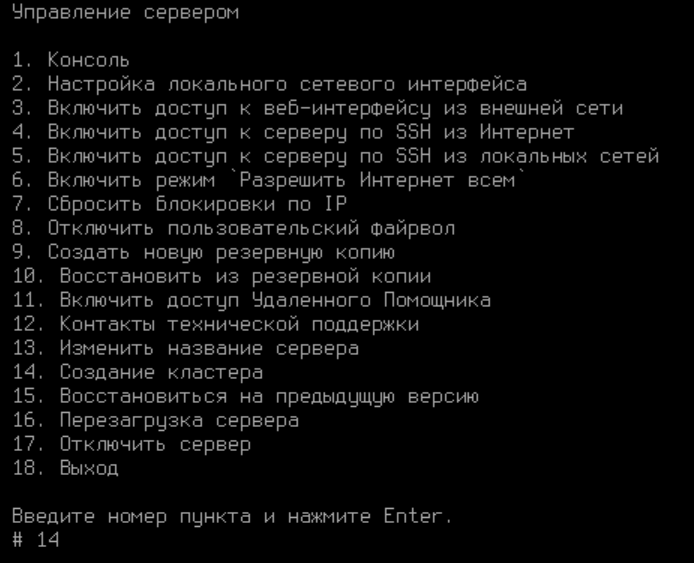
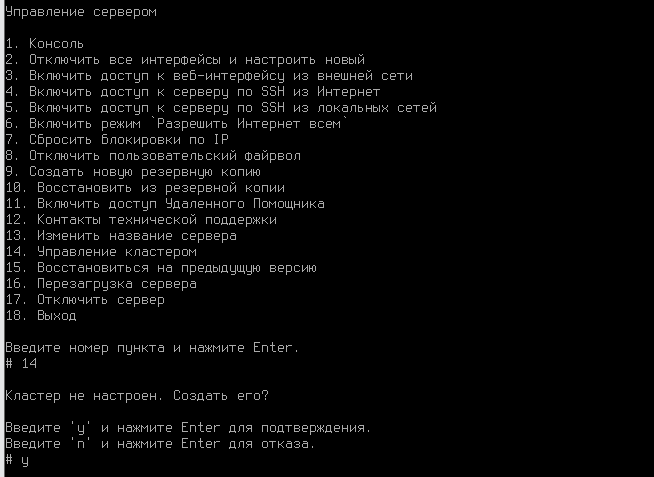
ICS-31983 Актуализирована статья Кластеризация

Changed region(s): [[0.0, 0.0, 0.948, 1.0], [0.367, 0.8218, 0.3976, 0.8512]]

diff --git a/settings/server-management/cluster.md b/settings/server-management/cluster.md
@@ -11,14 +11,19 @@ description: >-
 Список служб для других разделов доступен по [ссылке](terminal.md).
 {% endhint %}
 
-Каждое из двух устройств Ideco NGFW называется нодой.
+Каждое из двух устройств Ideco NGFW, объединенных в кластер, называется нодой.
 
-Кластер работает в режиме active-passive. Активной является нода, обрабатывающая трафик в данный момент времени. В свою очередь резервная нода осуществляет непрерывный мониторинг состояния активной ноды и переводит текущие задачи обработки трафика на себя при отсутствии связи с активной нодой. **В любой момент времени заниматься обработкой трафика может только одна из нод.**
+Кластер работает в режиме active-passive. Активной является нода, обрабатывающая трафик в данный момент. В свою очередь, резервная нода находится в предзагруженном состоянии и непрерывно мониторит состояние активной ноды, а при отсутствии связи с ней переводит текущие задачи обработки трафика на себя. 
 
-Сетевое взаимодействие между нодами осуществляется по отдельному физическому каналу, под который на каждой из нод резервируется по одной физической сетевой карте. Данный канал связи называется _Кластерной сетью_. Для поддержания связи между нодами используется механизм [keep-alive](https://ru.wikipedia.org/wiki/%D0%9F%D0%BE%D1%81%D1%82%D0%BE%D1%8F%D0%BD%D0%BD%D0%BE%D0%B5\_HTTP-%D1%81%D0%BE%D0%B5%D0%B4%D0%B8%D0%BD%D0%B5%D0%BD%D0%B8%D0%B5).
+{% hint style="warning" %}
+В любой момент заниматься обработкой трафика может только одна из нод.
+{% endhint %}
 
-Переключение нод происходит в случае отказа (полного зависания или перезагрузки) активной ноды, а также при потере связи между нодами по кластерной сети.\
-Кластер имеет один общий IP на внутреннем интерфейсе и другой общий IP на внешнем интерфейсе. Так как MAC-адреса у обеих нод разные, используется механизм Gratuitous ARP.
+Сетевое взаимодействие между нодами осуществляется по *Кластерной сети*. Это физический канал, под который на каждой из нод резервируется по одной физической сетевой карте. Веб-сервер активной ноды управляет кластером, а резервная нода постоянно готова принимать данные.  
+
+Переключение нод происходит, когда пассивная нода перестает фиксировать работу активной - при отказе (полном зависании или перезагрузке) активной ноды, а также при потере связи между нодами по кластерной сети. В этом случае пассивная нода полностью прогружается и становится активной.
+
+Если IP-адреса кластера настроены вручную, он имеет один общий IP на внутреннем интерфейсе и другой общий IP на внешнем интерфейсе. В случае автоматической конфигурации по DHCP адреса будут отличаться в зависимости от ноды.
 
 {% hint style="info" %}
 Для корректной работы кластера необходимо постоянное наличие связи между нодами.
@@ -28,33 +33,32 @@ description: >-
 **Особенности работы кластера:**
 
 * **Почта будет доступна для работы только в режиме почтового релея. Хранение почтовых ящиков отключено**;
-* **Все данные синхронизируются между двумя нодами за исключением данных отчетности, логов, мониторинга и аппаратных данных**;
+* **Все данные, в том числе отчетность из ClickHouse, синхронизируются между двумя нодами. Исключение - логи из journald, мониторинг и аппаратные данные**;
 * **При синхронизации двух NGFW происходит копирование данных активной ноды в резервную ноду с последующим перезаписыванием всей информации на резервной ноде**;
-* **Cинхронизация данных происходит автоматически в фоновом режиме**;
-* **Синхронизация двух NGFW не производится при разных версиях операционной системы Linux**;
+* **Синхронизация данных происходит автоматически в фоновом режиме**;
+* **Синхронизация двух NGFW не производится при разных версиях**;
 * **Не рекомендуется объединять в кластер геораспределенные ноды**;
 * **При работе NGFW на гипервизорах используйте средства отказоустойчивости гипервизора**;
 * **При различных размерах жестких дисков могут возникнуть проблемы при синхронизации из-за нехватки места**;
-* **Невозможно восстановление из бэкапов**;
+* **Невозможно восстановление из бэкапов. При этом можно создать резервную копию и после разрушения кластера восстановить на нее ноду, которая была активной**;
 * **Невозможно восстановиться на предыдущую версию**;
-* **Запрещено менять название серверов**;
-* **Запрещено удалять и добавлять сетевые интерфейсы, но РАЗРЕШЕНО отключать и редактировать**;
-* **Если у провайдера имеется привязка по MAC-адресу, то при переключении нод будет отсутствовать доступ в Интернет**;
+* **Запрещено добавлять сетевые интерфейсы, но РАЗРЕШЕНО отключать и редактировать. Удаление сетевого интерфейса кластера сделает его недееспособным**;
+* **Если у провайдера имеется привязка по MAC-адресу, то при переключении нод будет отсутствовать доступ в интернет**;
 * **Для настройки кластеризации нужна только одна лицензия на Ideco NGFW.**
 {% endhint %}
 
 ## Требования
 
-Для создания кластера необходимо выполнение следующих требований:
+Для создания кластера необходимо соблюдение следующих требований:
 
 * В кластере может быть только 2 ноды Ideco NGFW;
-* Обе ноды должны иметь одну версию системы идентичную вплоть до номера сборки;
+* Обе ноды должны иметь одну версию системы, идентичную вплоть до номера сборки;
 * Интерфейсы для создания кластерной сети на каждом Ideco NGFW должны быть в одном сегменте локальной сети, в котором нет других устройств;
-* Количество используемых физических сетевых карт на обоих серверах должно совпадать. В случае нарушения этого условия создать кластер нельзя.
+* Количество используемых физических сетевых карт на обоих серверах должно совпадать. В ином случае создать кластер нельзя. При этом само наличие дополнительных физических сетевых карт на нодах на создание кластера никак не влияет.
 
 ## Настройка кластера
 
-Если на момент создания кластера у вас уже есть настроенный Ideco NGFW, то рекомендуем выбрать его в качестве активной ноды. Все настройки резервной ноды будут удалены в процессе создания кластера.
+Если на момент создания кластера у вас уже есть настроенный Ideco NGFW, рекомендуем выбрать его в качестве активной ноды. Все настройки резервной ноды в процессе создания кластера будут удалены.
 
 ### Шаг 1 - Конфигурация резервной ноды
 
@@ -66,13 +70,13 @@ description: >-
 
 <img src="../../.gitbook/assets/cluster8.png" alt="" data-size="original">
 
-2\. Введите *y* и нажмите Enter;
+2\. Введите **y** и нажмите **Enter**;
 
 3\. Выберите сетевую карту:
 
 <img src="../../.gitbook/assets/cluster9.png" alt="" data-size="original">
 
-4\. Подтвердите создание кластера введя **y** и нажав **Enter**:
+4\. Подтвердите создание кластера, введя **y** и нажав **Enter**:
 
 <img src="../../.gitbook/assets/cluster10.png" alt="" data-size="original">
 
@@ -82,7 +86,7 @@ description: >-
 
 <img src="../../.gitbook/assets/cluster11.png" alt="" data-size="original">
 
-После ввода нового названия, нажмите **Enter** для продолжения диалога.
+После ввода нового названия нажмите **Enter** для продолжения диалога.
 
 6\. Появится сообщение, что процесс создания кластера запущен:
 
@@ -94,33 +98,30 @@ description: >-
 
 <details>
 
-<summary>Если создаете резервную ноду из уже установленного сервера Ideco NGFW с лицензией и доступом в интернет:</summary>
+<summary>Если создаете резервную ноду из уже установленного сервера Ideco NGFW с лицензией и доступом в интернет</summary>
 
 1\. Перейдите в локальное меню;
 
-2\. Выберите пункт **Создание кластера**:
+2\. Выберите пункт **Управление кластером**. Подтвердите создание кластера, введя **y** и нажав **Enter**:
 
-<img src="../../.gitbook/assets/cluster4.png" alt="" data-size="original">
+![](../../.gitbook/assets/cluster4.png)
 
-Пункты *Восстановиться на предыдущую версию* и *Создание кластера* будут отсутствовать, если кластер на ноде уже настроен
+Если на ноде нет свободных сетевых карт, создание кластера будет недоступно.\
+Если кластер на ноде уже настроен, при выборе пункта *Управление кластером* будет доступно только его разрушение.
 
 3\. Выберите свободную физическую сетевую карту для создания кластерной сети и подтвердите выбор:
 
 <img src="../../.gitbook/assets/cluster5.png" alt="" data-size="original">
 
-4\. Подтвердите создание кластера введя **y** и нажав **Enter**:
-
-<img src="../../.gitbook/assets/cluster6.png" alt="" data-size="original">
-
-5\. NGFW предложит изменить название сервера. При положительном ответите на вопрос _"Изменить название сервера?"_ появится надпись с предложением ввести новое название сервера.\
+4\. NGFW предложит изменить название сервера. При положительном ответите на вопрос _"Изменить название сервера?"_ появится надпись с предложением ввести новое название сервера.\
 Минимальное количество символов в названии - 2.\
 Максимальное количество символов в названии - 42.
 
 <img src="../../.gitbook/assets/cluster7.png" alt="" data-size="original">
 
-После ввода нового названия, нажмите **Enter** для продолжения диалога.
+После ввода нового названия нажмите **Enter** для продолжения диалога.
 
-6\. Появится сообщение, что процесс создания кластера запущен.
+5\. Появится сообщение, что процесс создания кластера запущен.
 
 <img src="../../.gitbook/assets/cluster12.png" alt="" data-size="original">
 
@@ -128,13 +129,13 @@ description: >-
 
 </details>
 
-### Шаг 2 -Конфигурация активной ноды
+### Шаг 2 - Конфигурация активной ноды
 
 Для конфигурации активной ноды в веб-интерфейсе Ideco NGFW выполните следующие действия:
 
 1\. Перейдите в раздел **Управление сервером -> Кластеризация** и нажмите кнопку **Настроить кластер отказоустойчивости**.
 
-2\. Подтвердите, что топология сети соответствует схеме на рисунке ниже:
+2\. Подтвердите, что топология сети соответствует схеме ниже:
 
 ![](../../.gitbook/assets/cluster-topology.png)
 
@@ -150,32 +151,33 @@ description: >-
 
 ![](../../.gitbook/assets/cluster-done.png)
 
-## Возможности резервной ноды:
+{% hint style="warning" %}
+Локальное меню резервной ноды недоступно в NGFW, начиная с версии 16.0.
+{% endhint %}
 
-В локальном меню резервной ноды доступны только следующие пункты:
+## Изменение названия сервера
 
-* Разрушение кластера;
-* Перезагрузка сервера;
-* Отключение сервера;
-* Выход.
+Изменить название сервера можно у той ноды, которая в данный момент является активной. Сделать это можно из локального меню или из веб-интерфейса. 
 
-Активная нода при этом имеет полностью работоспособный интерфейс и доступен весь функционал.
+* В локальном меню выберите соответствующий пункт и введите новое название:\
+  ![](../../.gitbook/assets/cluster14.png)
+
+* В веб-интерфейсе поменять название можно, нажав кнопку **Редактировать** рядом с названием сервера в левом верхнем углу экрана:\
+  ![](../../.gitbook/assets/cluster15.png)
 
 ## Разрушение кластера
 
-Вывести ноду из кластера можно из локального меню или веб-интерфейса. При этом та нода, с которой выполняется выход, остаётся работать. А вторая нода сбрасывает настройки до состояния только что установленного Ideco NGFW.
+Разрушить кластер можно только из локального меню или веб-интерфейса *активной* ноды. При этом она продолжит работать, а вторая нода (резервная) сбросит настройки до состояния только что установленного Ideco NGFW.
 
 <details>
 
 <summary>Разрушение кластера из локального меню</summary>
 
-1\. Выберите пункт локального меню **Разрушение кластера**;
+1\. Выберите пункт локального меню **Управление кластером**, введите **y** и нажмите **Enter**;
 
-2\. Появится предупреждающая надпись:
+![](../../.gitbook/assets/cluster13.png)
 
-<img src="../../.gitbook/assets/cluster-warning-local.png" alt="" data-size="original">
-
-3\. Введите **y** и нажмите **Enter**.
+2\. Подтвердите выбор.
 
 </details>
 
@@ -189,7 +191,7 @@ description: >-
 
 <img src="../../.gitbook/assets/cluster-warning.png" alt="" data-size="original">
 
-3\. Нажмите **ОК**.
+3\. Нажмите **ОК**:
 
 <img src="../../.gitbook/assets/cluster-kill.png" alt="" data-size="original">
 
@@ -197,7 +199,7 @@ description: >-
 
 ## Процедура обновления нод
 
-Для того чтобы обновить NGFW до последней версии в режиме кластера необходимо выполнить следующие действия:
+Чтобы обновить NGFW до последней версии в режиме кластера, необходимо выполнить следующие действия:
 
 1. Запустите обновление активной ноды - в разделе **Управление сервером -> Автоматическое обновление** нажмите соответствующую кнопку. В процессе обновления произойдет перезагрузка ноды. Резервная нода станет активной, переведя текущие задачи обработки трафика на себя.
 
